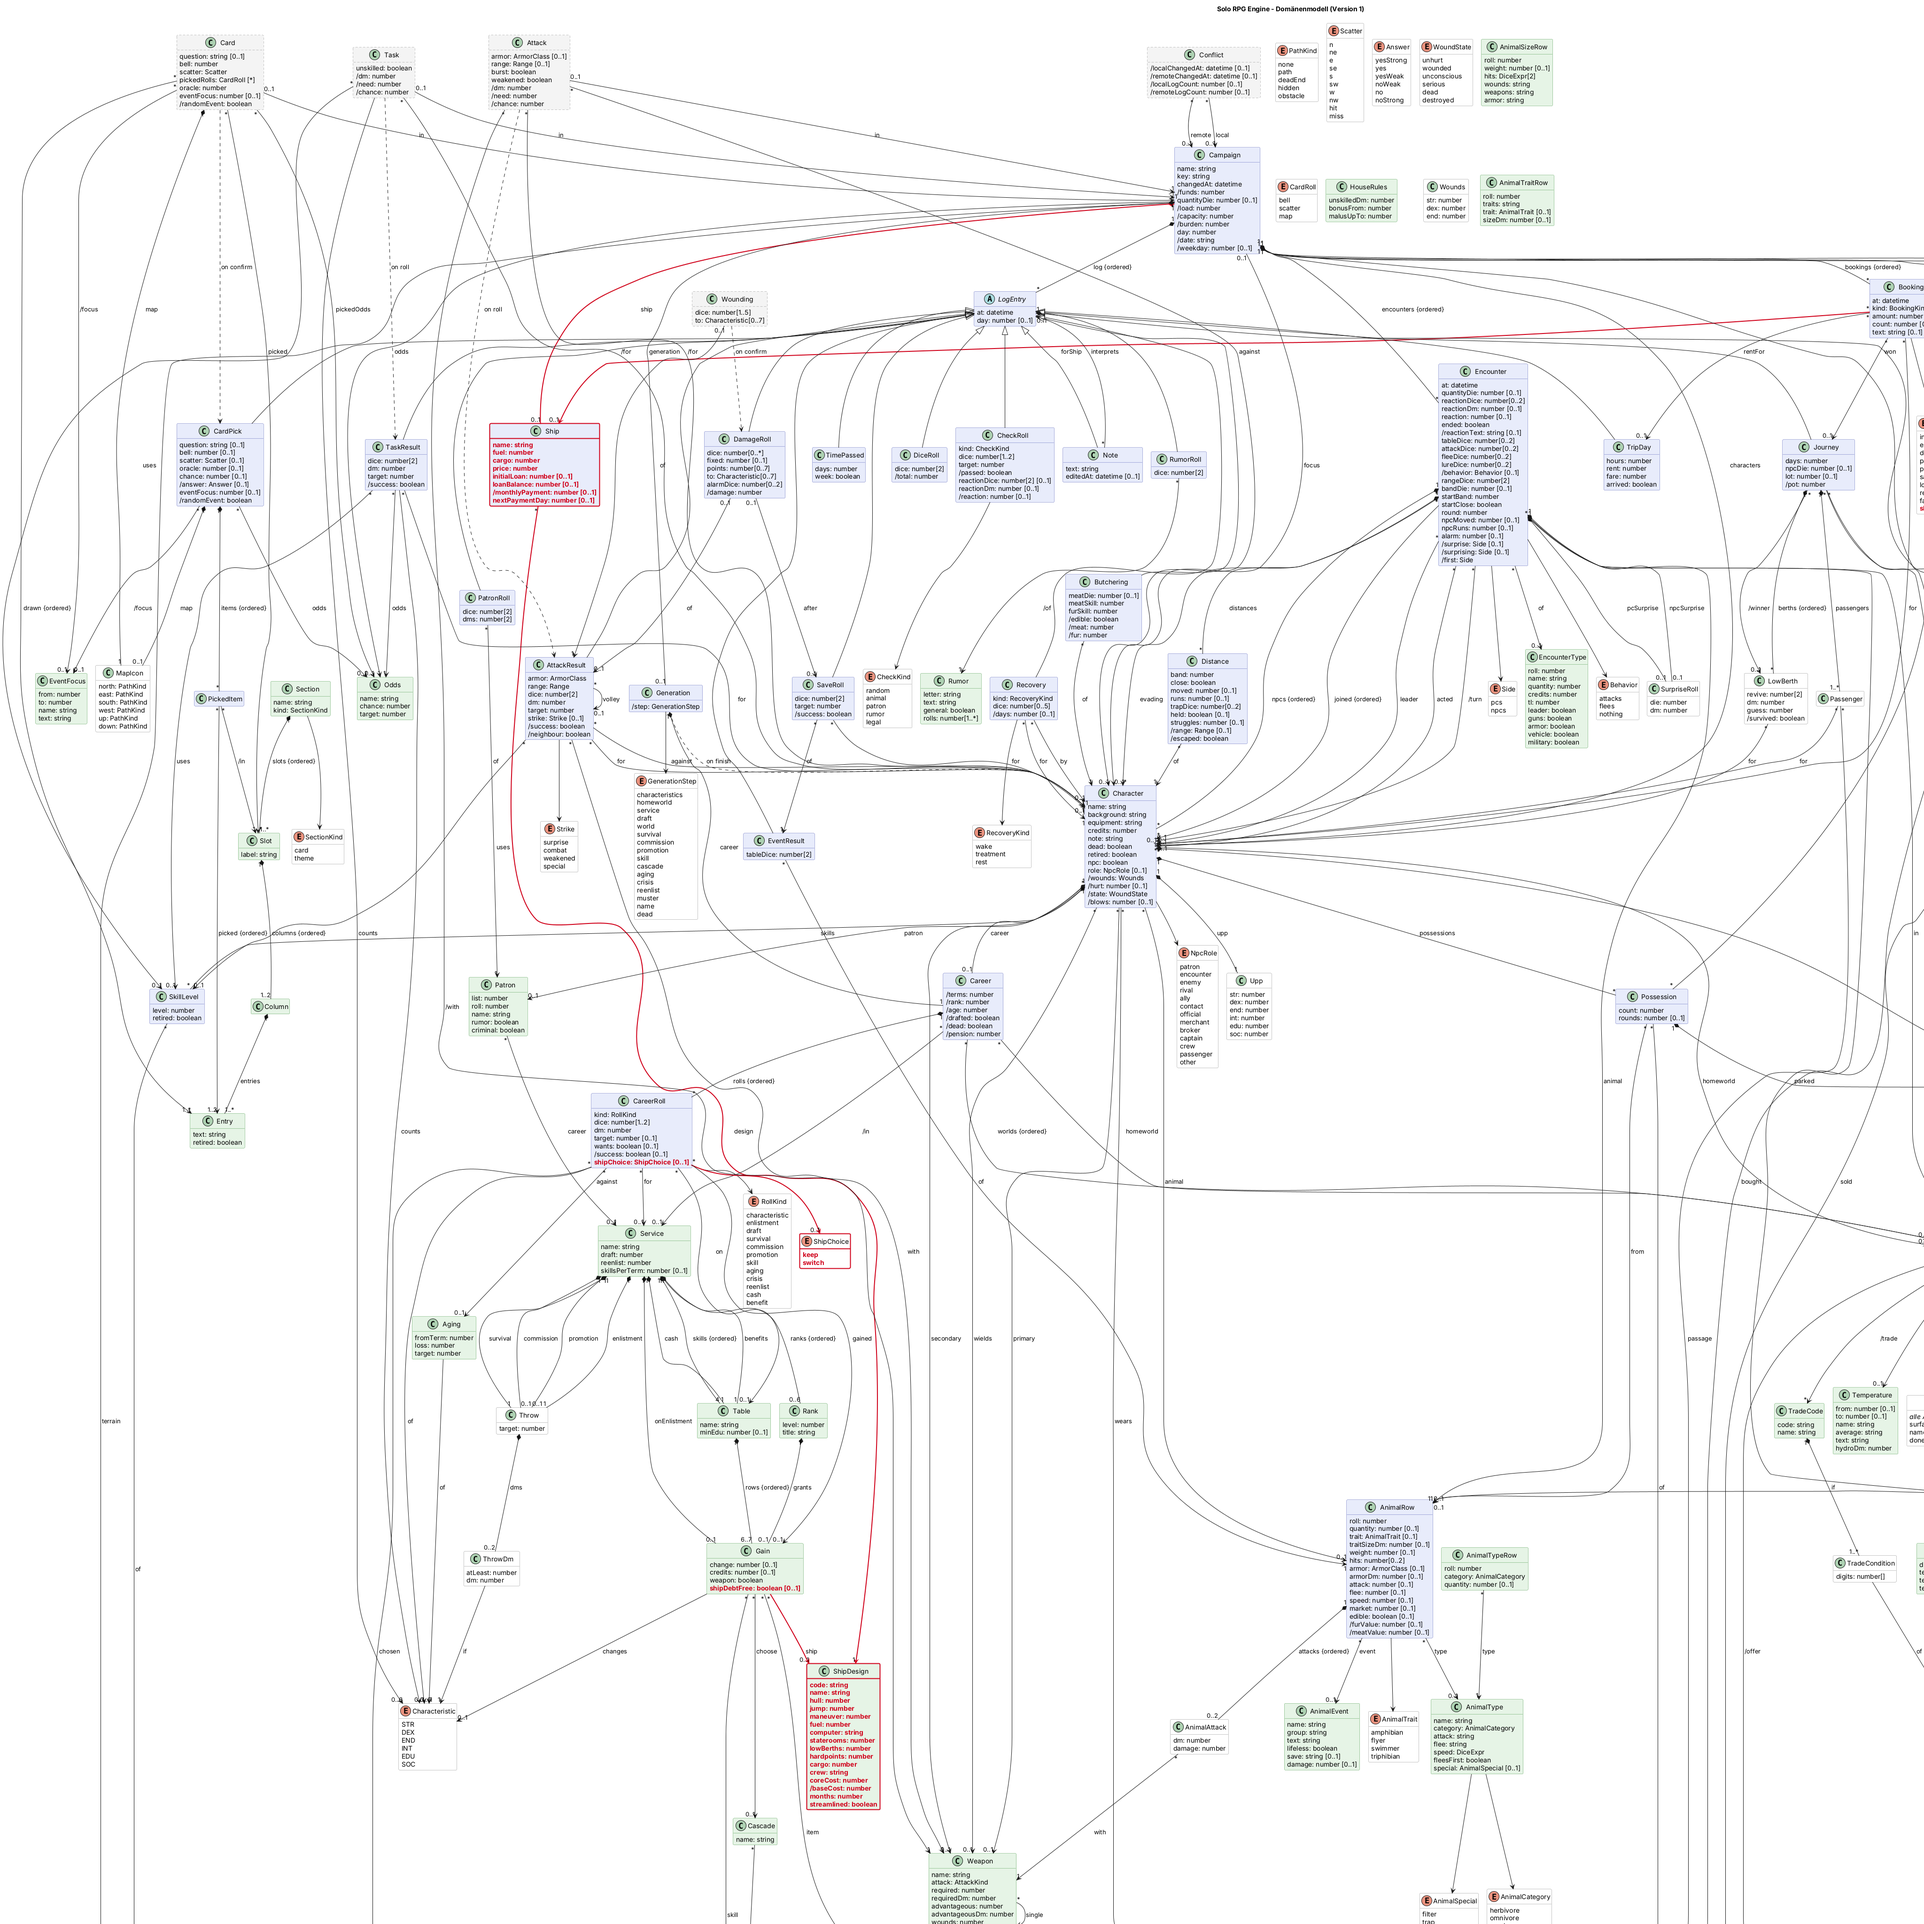
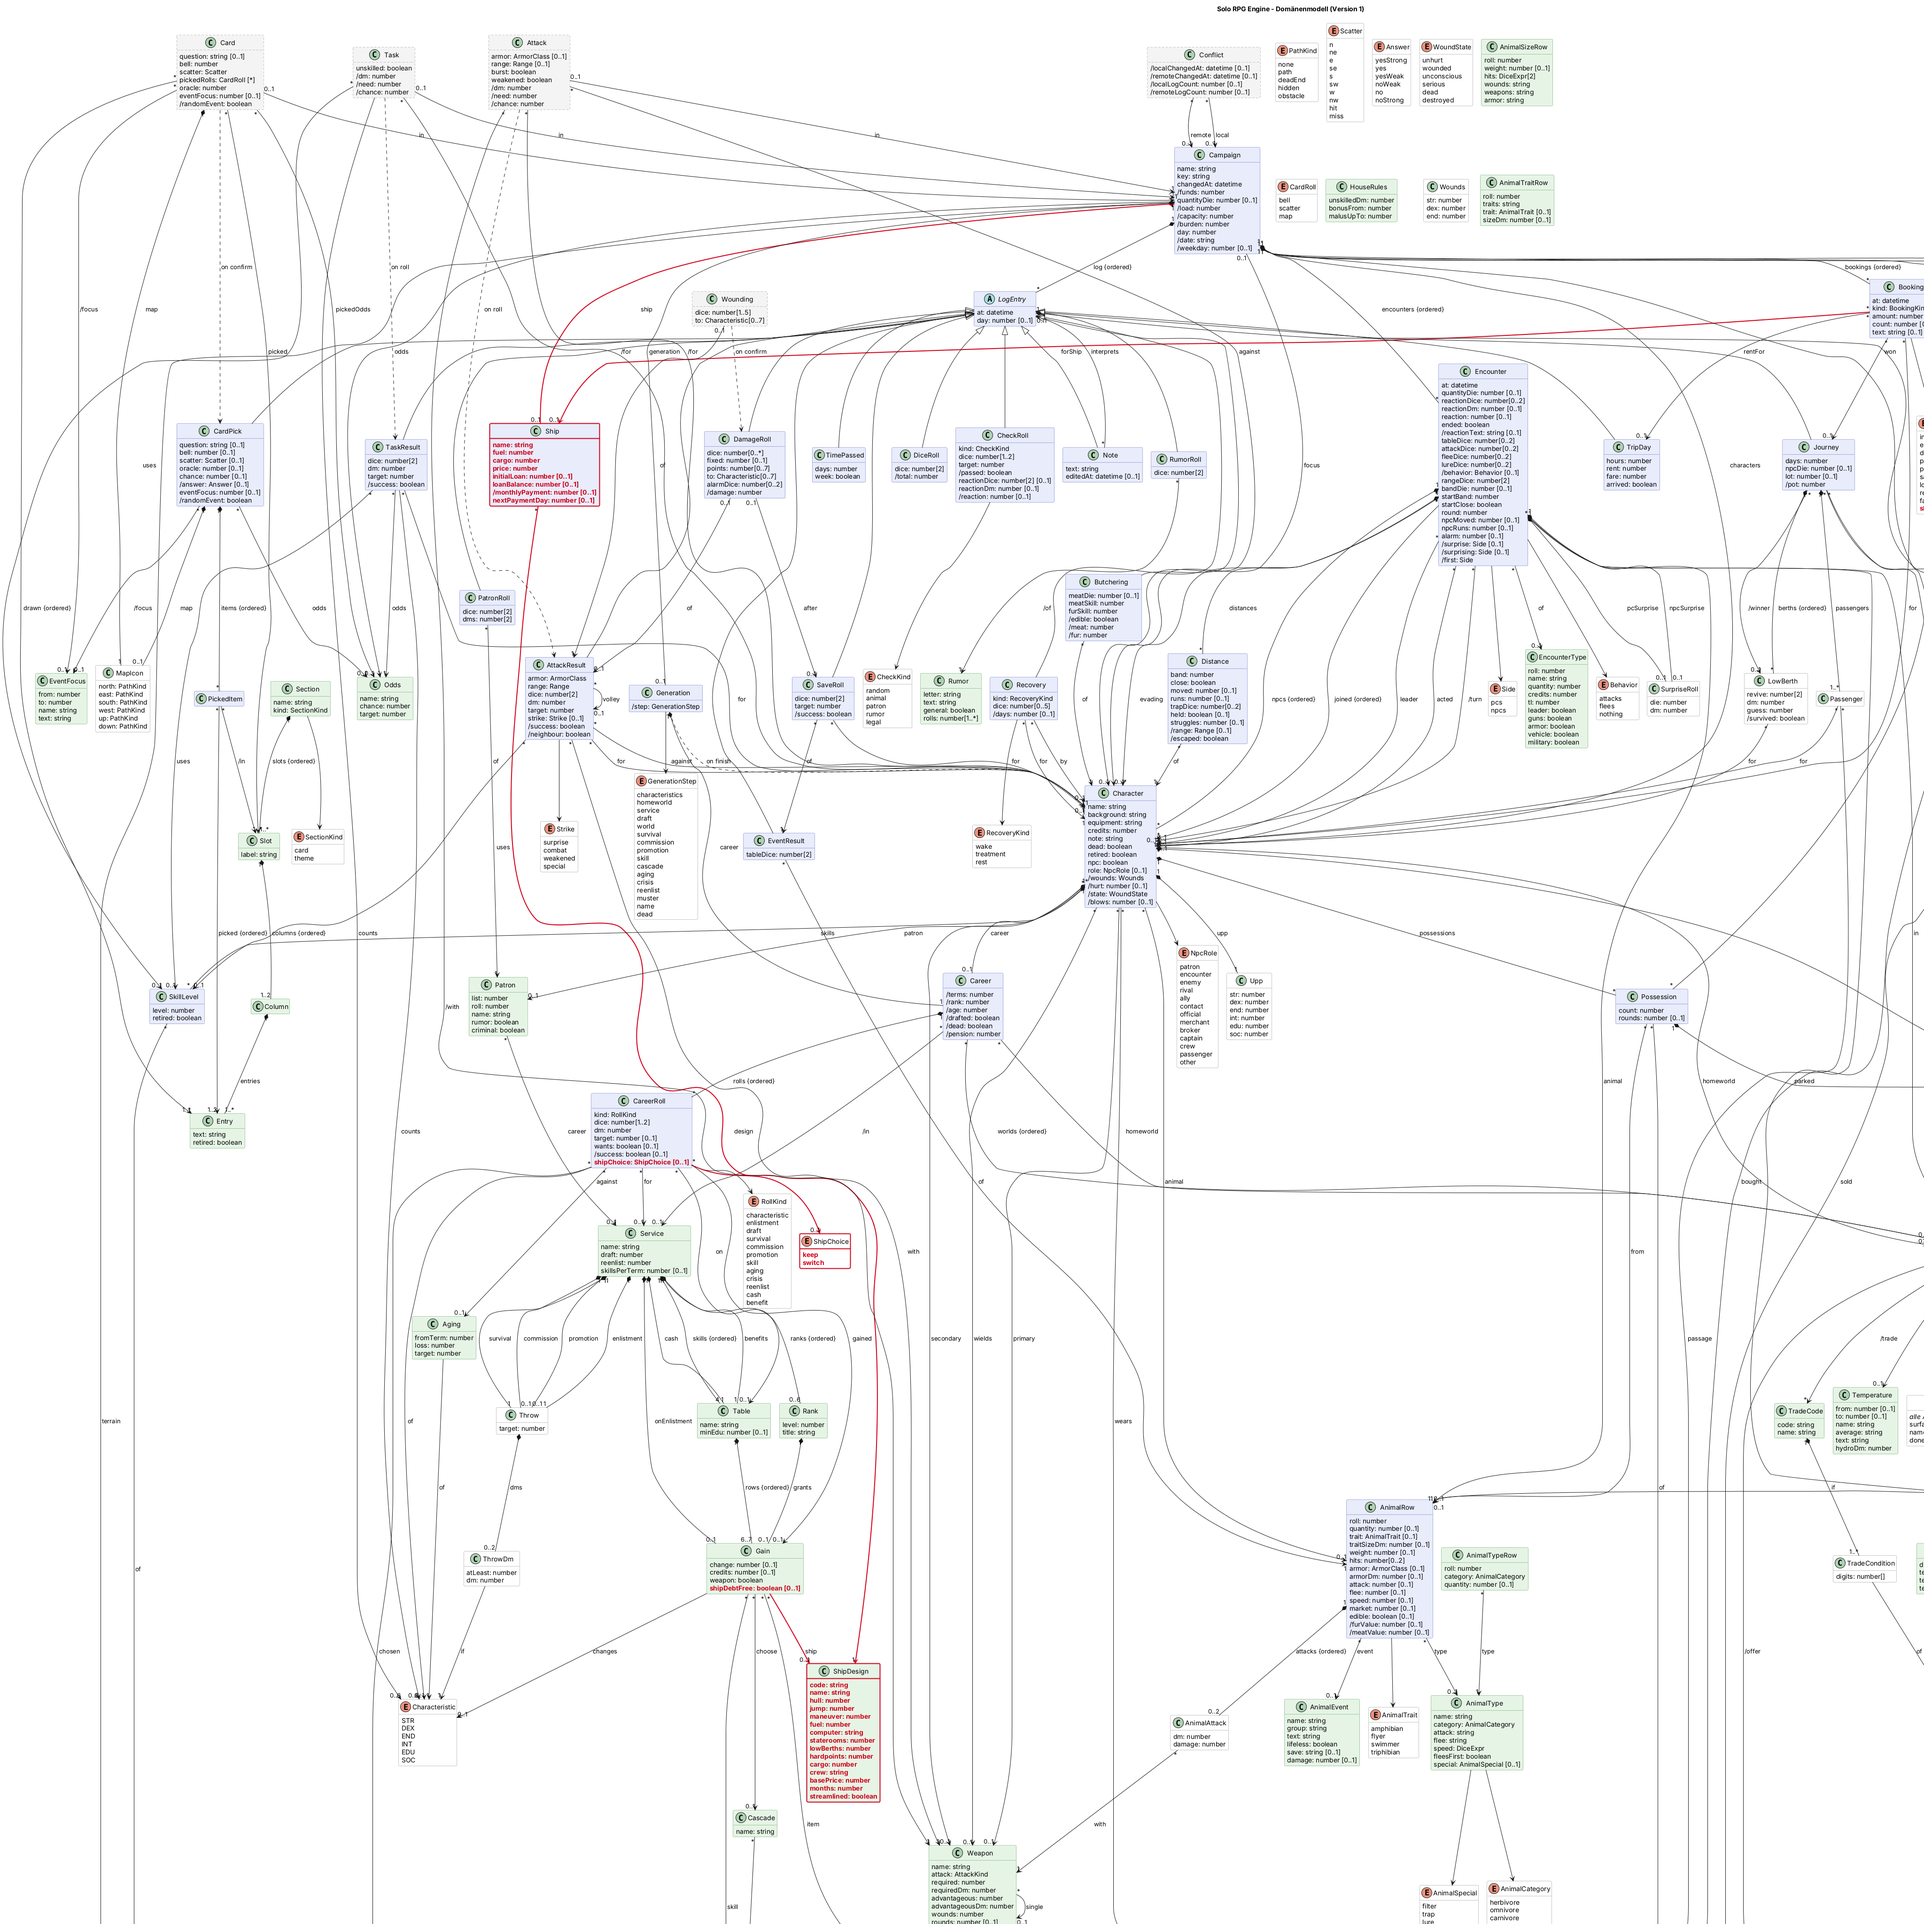
Schiffe (Entwurf): ShipDesign.basePrice als fester Wert statt vorgetäuschter Ableitung
coreCost und /baseCost entfallen wieder: Ohne die Tabellen aus Charts and
Tables für Rumpf, Antriebe, Energiewerk und Computer war die Formel nur ein
Umweg um denselben festen Preis aus SR 35-37. ShipDesign.basePrice speichert
ihn jetzt direkt; Ship.price (der tatsächlich gezahlte Preis, siehe letzten
Commit) bleibt unverändert und wird beim Erwerb weiter aus basePrice gesetzt
(Owner-Korrektur: "basePrice reicht").

Claude-Session: https://claude.ai/code/session_016ZF27xcWZGJ2yafXxaqqxe

diff --git a/docs/domain-model.md b/docs/domain-model.md
@@ -361,7 +361,7 @@ Lücken unter [Wo der Code noch nicht folgt](#wo-der-code-noch-nicht-folgt).
 > **Entwurf vom 16. November 2026, wartet auf Freigabe** (Kennzeichen 2026-11-16): **Schiffe als
 > Basis der Gruppe** (siehe *Schiffe*, RAW-Regeln in [`regeln-schiffe.md`](regeln-schiffe.md)). Erster
 > von drei Schritten (danach Handel, dann Raumkampf). Neu im Bild: `Ship` (mit `price`, eigener
-> gezahlter Preis, getrennt vom `/baseCost` des Entwurfs), `ShipDesign`, `Campaign.ship`,
+> gezahlter Preis, getrennt vom `basePrice` des Entwurfs), `ShipDesign`, `Campaign.ship`,
 > `BookingKind.ship`, `Booking.forShip`, `Gain.ship`, `Gain.shipDebtFree`, `CareerRoll.shipChoice`,
 > `ShipChoice`. Der Ausschnitt dazu liegt unter
 > [`changes/2026-11-16-schiffe-basis.png`](changes/2026-11-16-schiffe-basis.png).
@@ -678,8 +678,7 @@ Vacc Suit, Jack-of-all-Trades, …), Terms, Cr.
 | Würfelausdruck | `DiceExpr` | Wie viele W6 plus welcher DM, z. B. 2W6 + 1 oder 3W6 − 3 |
 | Schiff | `Ship`, `Campaign.ship` | Das eine Schiff der Gruppe als Basis: Entwurf, Name, Treibstoff und Fracht in Tonnen, offene Restschuld |
 | Schiffsentwurf | `ShipDesign` | Referenzdaten eines Standardentwurfs (Scout/Courier, Free Trader, …): Rumpf, Antriebe, Treibstofftank, Computer, Kabinen, Niedrigbetten, Hardpoints, Laderaum, Crewbedarf, Bauzeit; siehe [`regeln-schiffe.md`](regeln-schiffe.md) unter *Standardentwürfe* |
-| Kernkosten | `ShipDesign.coreCost` | Rumpf, Antriebe, Energiewerk und Computer zusammen; nicht weiter aufgeteilt, weil dafür die Tabellen aus *Charts and Tables* fehlen |
-| Grundpreis | `ShipDesign./baseCost` | Kernkosten plus Brücke, Kabinen, Niedrigbetten und Hardpoints, mit 10 % Rabatt für Standardentwürfe (SR 31); was ein neues Schiff dieses Entwurfs normalerweise kostet |
+| Grundpreis | `ShipDesign.basePrice` | Was ein neues Schiff dieses Entwurfs nach SR 35–37 kostet; ein fester Wert, weil sich Rumpf, Antriebe, Energiewerk und Computer ohne die Tabellen aus *Charts and Tables* nicht einzeln bepreisen lassen |
 | Preis | `Ship.price` | Was dieses eine Schiff tatsächlich gekostet hat; beim Erwerb gleich dem Grundpreis seines Entwurfs, kann aber abweichen (z. B. gebrauchtes Schiff, später) |
 | Kreditsumme | `Ship.initialLoan` | Was bei der Bankfinanzierung eines Schiffs insgesamt finanziert wurde (200 % des Preises); bleibt stehen, auch wenn sich der Preis des Entwurfs später ändert |
 | Restschuld | `Ship.loanBalance` | Was von der Kreditsumme noch offen ist; fehlt, wenn das Schiff schuldenfrei ist |
@@ -2489,29 +2488,22 @@ Vacc Suit, Jack-of-all-Trades, …), Terms, Cr.
     Schiffe gleichzeitig; eigene (Custom-)Entwürfe statt der Standardentwürfe; Small Craft (Launch,
     Ship's Boat, …) bleiben einfache Gegenstände der Art `ship` wie bisher, ohne eigenen
     `ShipDesign`.
-  - **Grundpreis aus den Bauteilen, tatsächlicher Preis am Schiff** (Owner, 16. November 2026): Am
-    Entwurf steht kein fester Preis, sondern er folgt aus seinen Bauteilen, wie es die Baukosten in
-    SR 31–33 auch vorgeben (`ShipDesign./baseCost`). Bekannt und ohne Lücke sind die Brücke (500 Cr
-    je Tonne Rumpf, aus MCr0,05 je 100 t), Kabinen (Cr500.000 je Stück), Niedrigbetten (Cr50.000 je
-    Stück) und Hardpoints (Cr100.000 je Stück); Treibstofftank und Laderaum **kosten nichts** (SR
-    32, ausdrücklich „there is no cost“). Rumpf, Antriebe, Energiewerk und Computer lassen sich
-    dagegen nicht einzeln bepreisen, weil dafür die Tabellen aus *Charts and Tables* fehlen (siehe
-    `regeln-schiffe.md` unter *Lücken*); sie bleiben deshalb als ein gespeicherter Posten
-    `coreCost` stehen. Die Formel: `/baseCost = round((coreCost + hull × 500 + staterooms × 500.000
-    + lowBerths × 50.000 + hardpoints × 100.000) × 0,9)`, mit dem aus SR 31 bekannten Rabatt von
-    10 % für Standardentwürfe. `coreCost` je Standardentwurf ist so gewählt, dass `/baseCost` genau
-    den in SR 35–37 genannten Preis ergibt (z. B. Free Trader MCr37,08); die neun Werte stehen,
-    sobald der Code folgt, in den Referenzdaten. Fehlt später ein eigener (Custom-)Entwurf mit
-    echten Rumpf-/Antriebs-/Computerkosten, ersetzt das die Tabellen aus den Charts, nicht die
-    Formel.
-    `Ship.price` ist dagegen der **tatsächlich gezahlte Preis dieses einen Schiffs**: beim Erwerb
-    gleich `design./baseCost` gesetzt, aber ein eigenes, gespeichertes Feld, weil er später davon
-    abweichen kann und soll – etwa für ein **gebrauchtes Standardschiff** (SR 31: 10–40 Jahre alt,
-    10–40 % günstiger). Ein solcher Preisnachlass ist **nicht Teil dieses Schritts** (offene Frage,
-    siehe unten), aber das Feld ist schon da, damit `price` nicht rückwirkend am Entwurf hängt,
-    sobald es ihn gibt.
+  - **Grundpreis am Entwurf, tatsächlicher Preis am Schiff** (Owner, 16. November 2026, nach einem
+    Missverständnis richtiggestellt): `ShipDesign.basePrice` ist schlicht der in SR 35–37 genannte
+    Preis eines neuen Schiffs dieses Standardentwurfs (z. B. Free Trader Cr37.080.000) – **ein
+    gespeicherter Wert, nicht abgeleitet**, denn die Tabellen aus *Charts and Tables*, aus denen
+    sich Rumpf, Antriebe, Energiewerk und Computer einzeln bepreisen ließen, fehlen (siehe
+    `regeln-schiffe.md` unter *Lücken*); eine Formel daraus vorzutäuschen wäre nur ein Umweg um
+    denselben festen Wert. Käme später ein eigener (Custom-)Entwurf aus echten Bauteilpreisen
+    hinzu, ist das ein eigener Schritt, der die fehlenden Tabellen erst besorgt.
+    `Ship.price` ist der **tatsächlich gezahlte Preis dieses einen Schiffs**: beim Erwerb gleich
+    `design.basePrice` gesetzt, aber ein eigenes, gespeichertes Feld, weil er später davon abweichen
+    kann und soll – etwa für ein **gebrauchtes Standardschiff** (SR 31: 10–40 Jahre alt, 10–40 %
+    günstiger). Ein solcher Preisnachlass ist **nicht Teil dieses Schritts** (offene Frage, siehe
+    unten), aber das Feld ist schon da, damit `price` nicht rückwirkend am Entwurf hängt, sobald es
+    ihn gibt.
   - **Erwerb.** Drei Wege, alle im Shop bzw. in der Charaktererschaffung; in allen dreien wird
-    `Ship.price` zunächst auf `design./baseCost` gesetzt (kein Nachlass in diesem Schritt):
+    `Ship.price` zunächst auf `design.basePrice` gesetzt (kein Nachlass in diesem Schritt):
     1. **Bar aus der Kasse:** der volle Preis (`price`) wird sofort gebucht (`BookingKind.ship`),
        das Schiff entsteht ohne Restschuld, mit vollem Tank und leerem Laderaum.
     2. **Bankfinanzierung** (SR 29, voll nach RAW): 20 % Anzahlung sofort aus der Kasse gebucht
@@ -2532,7 +2524,7 @@ Vacc Suit, Jack-of-all-Trades, …), Terms, Cr.
     3. **Ship-Vorteil der Abmusterung** (SR, Mustering-out Benefits; Hausregel-Zuordnung wie bisher
        bei `scout-ship`/`free-trader`): Eine Zeile der Benefits-Tabelle verweist jetzt über `Gain.ship`
        auf einen `ShipDesign` statt über `Gain.item` auf einen Gegenstand. Hat die Kampagne **noch
-       kein Schiff**, legt der Vorteil es an (`price` = `design./baseCost`): beim Scout schuldenfrei
+       kein Schiff**, legt der Vorteil es an (`price` = `design.basePrice`): beim Scout schuldenfrei
        (`Gain.shipDebtFree`, `initialLoan` und `loanBalance` fehlen), beim Merchant mit `initialLoan`
        und `loanBalance` auf 100 % von `price` (der halbe Kredit; ein zweiter Merchant-Ship-Vorteil
        für denselben Entwurf zahlt die Restschuld auf 0, ohne `initialLoan` zu ändern). Hat die
@@ -2541,7 +2533,7 @@ Vacc Suit, Jack-of-all-Trades, …), Terms, Cr.
        Vorteil bleibt ohne Wirkung, steht aber im Lebenslauf) oder **wechseln** (das alte Schiff
        samt seiner Restschuld entfällt ersatzlos – „Kredit kündigen“ als Vereinfachung, kein
        Verkaufserlös). Die alten Gegenstände `scout-ship` und `free-trader` (Art `ship`) entfallen
-       aus `items.json`, sobald der Code folgt; ihre Preise stehen jetzt als `coreCost` an
+       aus `items.json`, sobald der Code folgt; ihre Preise stehen jetzt als `basePrice` an
        `ShipDesign`.
   - **Offene Fragen für einen späteren Schritt:** Wie die Gruppe mit dem eigenen Schiff zwischen
     Sternen springt (ergänzt die gekaufte Passage, ersetzt sie nicht, siehe Owner-Entscheidung vom
